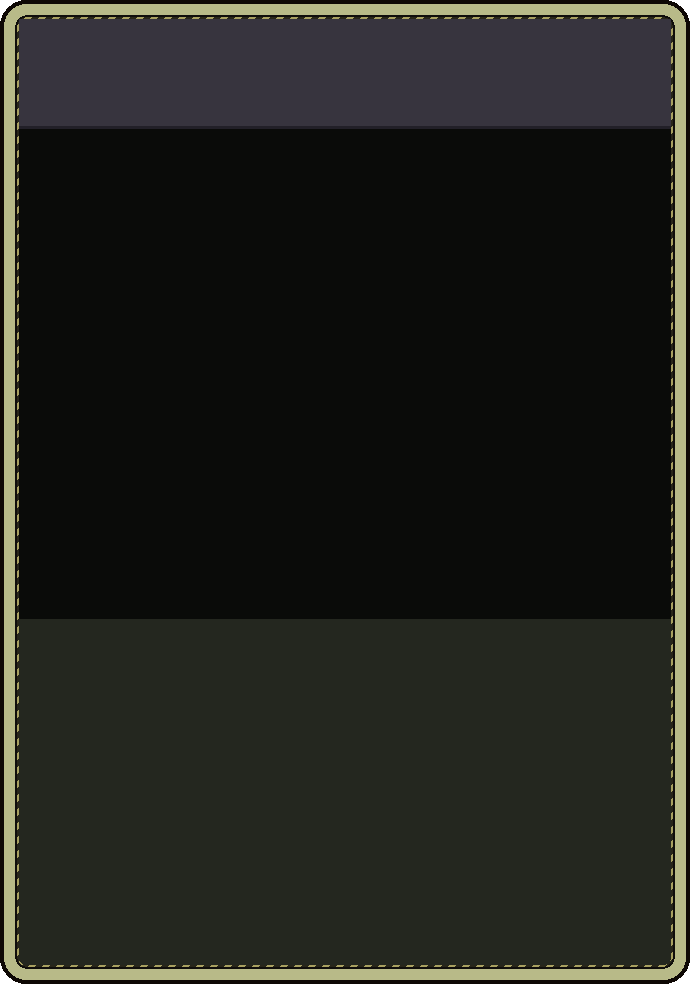
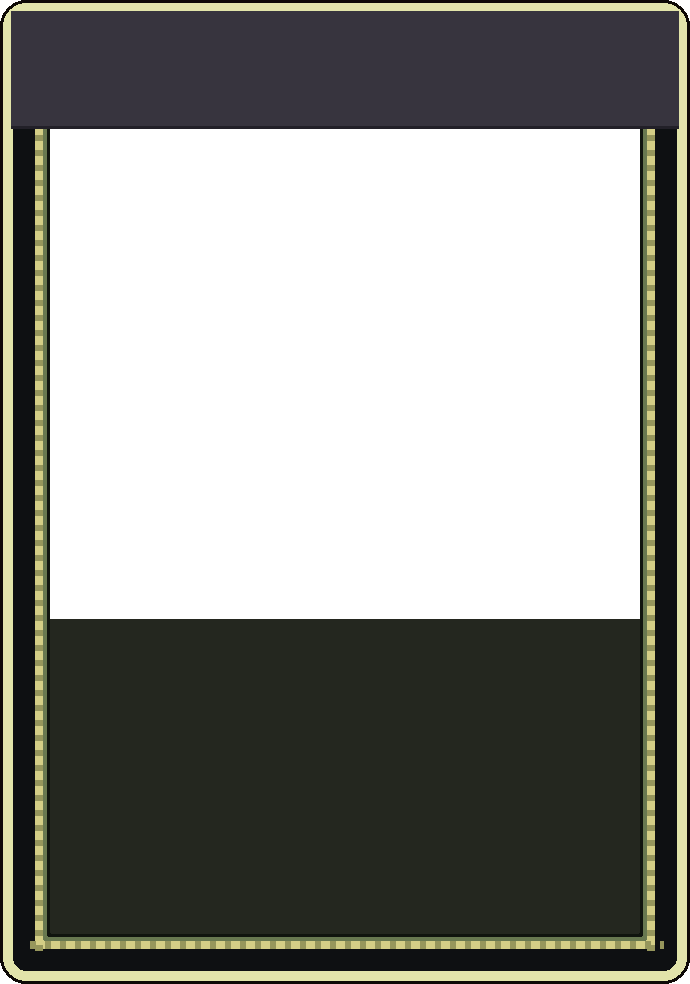
builder: cards — TARGET's double-line beaded trim, art under a see-through window (smooth edges), gem disc, fan tilt 0.085, picture rim, Leap/Scramble re-cut; grader FAIL (in progress)
Claude-Session: https://claude.ai/code/session_01DMV86vXBBiof7TRTcMs49V

diff --git a/tools/cardart_cut.py b/tools/cardart_cut.py
@@ -14,39 +14,56 @@ from pathlib import Path
 
 import cv2
 import numpy as np
-from PIL import Image
+from PIL import Image, ImageEnhance, ImageFilter
 from scipy import ndimage as ndi
 
 ROOT = Path(__file__).resolve().parent.parent
 TARGET = ROOT / "design/art/targets/TARGET.png"
 OUT = ROOT / "game/assets/cardart"
 
-# name: (window centre x, y in TARGET px, card tilt in degrees, + = clockwise)
-CARDS = {"scramble": (643.0, 878.0, 3.0), "leap": (366.5, 884.0, -4.0)}
+# name: (window centre x, y in TARGET px, card tilt in degrees, + = clockwise[,
+# window width in TARGET px when the card's window is not WIN_W])
+CARDS = {"scramble": (646.0, 885.5, 5.0, 134.0), "leap": (371.0, 885.0, -5.0)}
 # Shipped from this cut: scramble only (window error 35.9 -> 30.1 on the
 # --hand square). Leap's cut registered worse (24.2 -> 34.4) and the older
 # reflected cut stays; run with a name to cut one card.
-WIN_W = 129.0                      # TARGET px: the art under the frame too (registered: 116 drew TARGET 1.11x)
-ASPECT = (0.958 * 690) / (0.498 * 984)
-SCALE = 5                          # output px per TARGET px
+SATURATE = {"leap": 1.12}
+EDGE_FIX = {"leap"}                # cards whose cut needs the edge columns replaced (scramble's trim is tilted across them)
+WIN_W = 122.0                      # TARGET px: the window inside the gold line (run 14: the frame now trims a 2 px bleed)
+ASPECT = (0.850 * 690) / (0.498 * 984)   # card_view.A1_ART (run 14: the art starts inside the trim)
+SCALE = 1.4                        # output px per TARGET px: ~2x the window on screen, so the card's mip 1 lands 1:1 and the art stays as crisp as TARGET's (run 14)
 
 
-def cut(name: str, cx: float, cy: float, tilt: float) -> None:
+def cut(name: str, cx: float, cy: float, tilt: float, win_w: float = 0.0) -> None:
     T = np.asarray(Image.open(TARGET).convert("RGB"))
     M = cv2.getRotationMatrix2D((cx, cy), tilt, 1.0)
     R = cv2.warpAffine(T, M, (T.shape[1], T.shape[0]), flags=cv2.INTER_LANCZOS4, borderMode=cv2.BORDER_REFLECT)
-    w, h = WIN_W, WIN_W / ASPECT
+    w = win_w or WIN_W
+    h = w / ASPECT
     x0, y0 = int(round(cx - w / 2)), int(round(cy - h / 2))
     crop = R[y0:y0 + int(round(h)), x0:x0 + int(round(w))].copy()
     r, g, b = [crop[..., k].astype(int) for k in range(3)]
     mx, mn = crop.max(2).astype(int), crop.min(2).astype(int)
     # TARGET's cost badge (a saturated emerald disc, top left) and its type
     # pill (pale grey, low in the window): the card draws its own.
-    badge = (g > r + 40) & (g > b + 10) & (g > 90) & (b > 40)
+    badge = (g > r + 85) & (g > b + 45) & (g > 120) & (r < 95)   # the emerald disc only: the looser key took Leap's light foliage too (run 14)
     badge &= np.arange(crop.shape[0])[:, None] < crop.shape[0] * 0.45
     badge &= np.arange(crop.shape[1])[None, :] < crop.shape[1] * 0.4
     pill = (mx > 150) & (mx - mn < 30)
     pill &= np.arange(crop.shape[0])[:, None] > crop.shape[0] * 0.7
+    # Only the pill itself: the biggest pale blob round the window's middle.
+    # The loose key also took Leap's pale low foliage, and its inpaint drew a
+    # white haze across the art's foot (run 14).
+    lab, n = ndi.label(ndi.binary_closing(pill, iterations=2))
+    if n:
+        sizes = ndi.sum(pill, lab, range(1, n + 1))
+        cxs = [np.nonzero(lab == i)[1].mean() for i in range(1, n + 1)]
+        keep = [i + 1 for i in range(n) if 0.25 < cxs[i] / crop.shape[1] < 0.75]
+        if keep:
+            best = max(keep, key=lambda i: sizes[i - 1])
+            pill = lab == best
+        else:
+            pill[:] = False
     hole = ndi.binary_dilation(ndi.binary_fill_holes(ndi.binary_closing(badge | pill, iterations=2)), iterations=3)
     # The name band's dark bottom edge, if the window's top row caught it.
     dark_top = np.zeros_like(hole)
@@ -54,10 +71,36 @@ def cut(name: str, cx: float, cy: float, tilt: float) -> None:
         if (mx[y] < 70).mean() > 0.6:
             dark_top[y] = True
     hole |= dark_top
+    # TARGET's own trim or name band caught at the window's edges (a column
+    # or row within 8 px of the edge that is dark or carries the gold line):
+    # replaced by the nearest clean column / row, so no border shows inside
+    # the card's own (run 14).
+    lum = crop.mean(2)
+    def bad(v):
+        return v.mean() < 75 or (v > 150).mean() > 0.6
+    W_, H_ = crop.shape[1], crop.shape[0]
+    for side in ((0, 1) if name in EDGE_FIX else ()):
+        xs = range(0, 8) if side == 0 else range(W_ - 1, W_ - 9, -1)
+        bad_x = [x for x in xs if bad(lum[int(H_ * 0.15):int(H_ * 0.8), x])]
+        if bad_x:
+            edge = max(bad_x) + 1 if side == 0 else min(bad_x) - 1
+            sl = slice(0, edge) if side == 0 else slice(edge + 1, W_)
+            crop[:, sl] = crop[:, edge:edge + 1]
+    top_bad = [y for y in range(0, 6) if lum[y, int(W_ * 0.3):int(W_ * 0.7)].mean() < 75]
+    if top_bad and name in EDGE_FIX:
+        e = max(top_bad) + 1
+        crop[:e] = crop[e:e + 1]
     bgr = np.ascontiguousarray(crop[..., ::-1])
     fill = cv2.inpaint(bgr, hole.astype(np.uint8) * 255, 5, cv2.INPAINT_TELEA)[..., ::-1]
     crop[hole] = fill[hole]
     out = Image.fromarray(crop).resize((int(round(w * SCALE)), int(round(h * SCALE))), Image.LANCZOS)
+    # The card draws this through a mip and a bilinear tap; a light unsharp
+    # mask gives back the edge contrast TARGET's window has (run 14).
+    out = out.filter(ImageFilter.UnsharpMask(radius=1.4, percent=70, threshold=1))
+    # Drawn small through the card's filters, Leap's sky and leaves lose a
+    # little colour against TARGET's crisp window; give it back (run 14).
+    if name in SATURATE:
+        out = ImageEnhance.Color(out).enhance(SATURATE[name])
     out.save(OUT / f"{name}.png")
     print(f"cardart_cut: {name} {out.size[0]}x{out.size[1]}, {int(hole.sum())} px inpainted")
 

diff --git a/tools/cardframe_target.py b/tools/cardframe_target.py
@@ -43,11 +43,20 @@ def rounded(draw, inset, fill):
                            radius=max(2, RADIUS - inset), fill=fill)
 
 
-# TARGET's edge, outside in, measured across its Scramble card's left side
-# (1 TARGET px = 5 source px): a dark rim, a cream line, a gold line, then
-# green, dark green, green.
-EDGE = [((14, 8, 4), 4), ((226, 230, 162), 5), ((126, 132, 62), 4),
-        ((60, 80, 50), 6)]
+# TARGET's edge, outside in, measured across its Leap and Tongue Snap cards'
+# sides at 1024 (1 TARGET-1024 px = ~5.3 source px; builder 2026-10-09 run
+# 14): a thin dark rim, a cream line, a dark slate band ~6 px wide, then a
+# dull-gold line with a green-grey line inside it, then a dark keyline round
+# the art window. The name band covers the band along the top, so the top
+# edge reads as the cream line alone, as in TARGET.
+EDGE = [((14, 10, 6), 3), ((226, 228, 170), 10), ((14, 16, 18), 22),
+        ((212, 206, 134), 8), ((104, 120, 80), 4), ((16, 20, 14), 3)]
+# The beads: TARGET's inner gold line is dotted, bright yellow beads with
+# darker olive-gold gaps (the "trim" seen at 720 down every card's sides).
+BEAD = (150, 150, 92)    # the GAP colour, painted over the gold line: TARGET's beads are fine and low-contrast
+BEAD_W = 8               # px across: the gold line's width
+BEAD_ON, BEAD_PERIOD = 6, 15   # px along: gap length, bead period
+BAND_FROM = 11           # the name band starts inside the cream line, px
 ART_BG = (10, 11, 9)     # TARGET's art window behind an icon: near-black
 
 
@@ -61,12 +70,30 @@ def build():
     rounded(d, inset, BODY + (255,))
     a = np.asarray(im).copy()
     top = inset
+    # beads in the band: the band runs from b0 to b1 px in from the edge
+    b0 = EDGE[0][1] + EDGE[1][1] + EDGE[2][1]
+    lo, hi = b0, b0 + BEAD_W
+    on = (np.arange(H) % BEAD_PERIOD) < BEAD_ON
+    for x in list(range(lo, hi)) + list(range(W - hi, W - lo)):
+        rows = np.nonzero(on)[0]
+        rows = rows[(rows > RADIUS) & (rows < H - RADIUS)]
+        a[rows, x, :3] = BEAD
+    onx = (np.arange(W) % BEAD_PERIOD) < BEAD_ON
+    for y in range(H - hi, H - lo):
+        cols = np.nonzero(onx)[0]
+        cols = cols[(cols > RADIUS) & (cols < W - RADIUS)]
+        a[y, cols, :3] = BEAD
     bb = int(BAND_BOTTOM * H)
-    a[top:bb, top:W - top, :3] = BAND
-    a[bb - 3:bb, top:W - top, :3] = (34, 32, 40)
+    a[BAND_FROM:bb, BAND_FROM:W - BAND_FROM, :3] = BAND
+    a[bb - 3:bb, BAND_FROM:W - BAND_FROM, :3] = (34, 32, 40)
     # The art window, behind the art: an icon's clear ground shows black.
     ab = int(ART_BOTTOM * H)
     a[bb:ab, top:W - top, :3] = ART_BG
+    # The window is see-through: card_view.gd draws the art (on a black
+    # ground) UNDER this frame, so the frame's filtered edge overlaps the
+    # art's and a tilted card's window edge is smooth, not a staircase
+    # (run 14).
+    a[bb:ab, top:W - top, 3] = 0
     Image.fromarray(a, "RGBA").save(OUT / "card_frame_t_base.png")
     Image.new("RGBA", (W, H), (0, 0, 0, 0)).save(OUT / "card_frame_t_glow.png")
     print("wrote card_frame_t_base.png, card_frame_t_glow.png", W, "x", H, "edge", inset)
